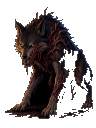
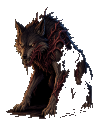
Refine Rootbitten Wolf matte candidate

diff --git a/tests/assetPipeline.test.ts b/tests/assetPipeline.test.ts
@@ -73,9 +73,9 @@ describe('asset production foundation', () => {
 
     expect(wolf?.approvalState).toBe('in_game_previewed');
     expect(wolf?.processedPath).toBe('public/assets/drafts/underroot/batch-01/rootbitten-wolf-clean-preview-01.png');
-    expect(wolf?.matteOrMaskNotes).toContain('Near-black matte removed');
+    expect(wolf?.matteOrMaskNotes).toContain('threshold 24');
     expect(wolf?.matteOrMaskNotes).toContain('enclosed transparent holes are restored');
-    expect(wolf?.humanEditNotes).toContain('not approved');
+    expect(wolf?.humanEditNotes).toContain('still not approved');
   });
 });
 

diff --git a/.logs/m3-wolf-matte-cleanup.md b/.logs/m3-wolf-matte-cleanup.md
@@ -5,17 +5,18 @@ final art.
 
 ## Changed
 
-- Updated `scripts/matte-sprite.mjs` to remove edge-connected dark matte while
-  preserving enclosed dark body detail.
-- Generated `rootbitten-wolf-clean-preview-01.png` from the existing raw draft.
+- Updated `scripts/matte-sprite.mjs` usage to remove edge-connected dark matte
+  while preserving enclosed dark body detail.
+- Regenerated `rootbitten-wolf-clean-preview-01.png` from the existing raw draft
+  with threshold 24 after comparing thresholds 18, 24, and 30.
 - Pointed the public passport and Combat Sandbox composition at the cleaned
   preview.
-- Kept `enemy.root-wolf.placeholder` at `in_game_previewed`; the cleaned sprite
-  reads better in combat, but still needs human edge cleanup before approval.
+- Kept `enemy.root-wolf.placeholder` at `in_game_previewed`; the refined sprite
+  reads better in combat, but still needs human edge review before approval.
 
 ## Receipts
 
-- `.logs/wolf-matte-comparison.png` compares the old and cleaned alpha on a
-  checker background.
-- `.logs/wolf-combat-comparison.png` compares both versions on the approved
+- `.logs/wolf-matte-comparison.png` compares old matte, threshold 18, and
+  threshold 24 on a checker background.
+- `.logs/wolf-combat-comparison.png` compares all three versions on the approved
   Underroot combat background.
